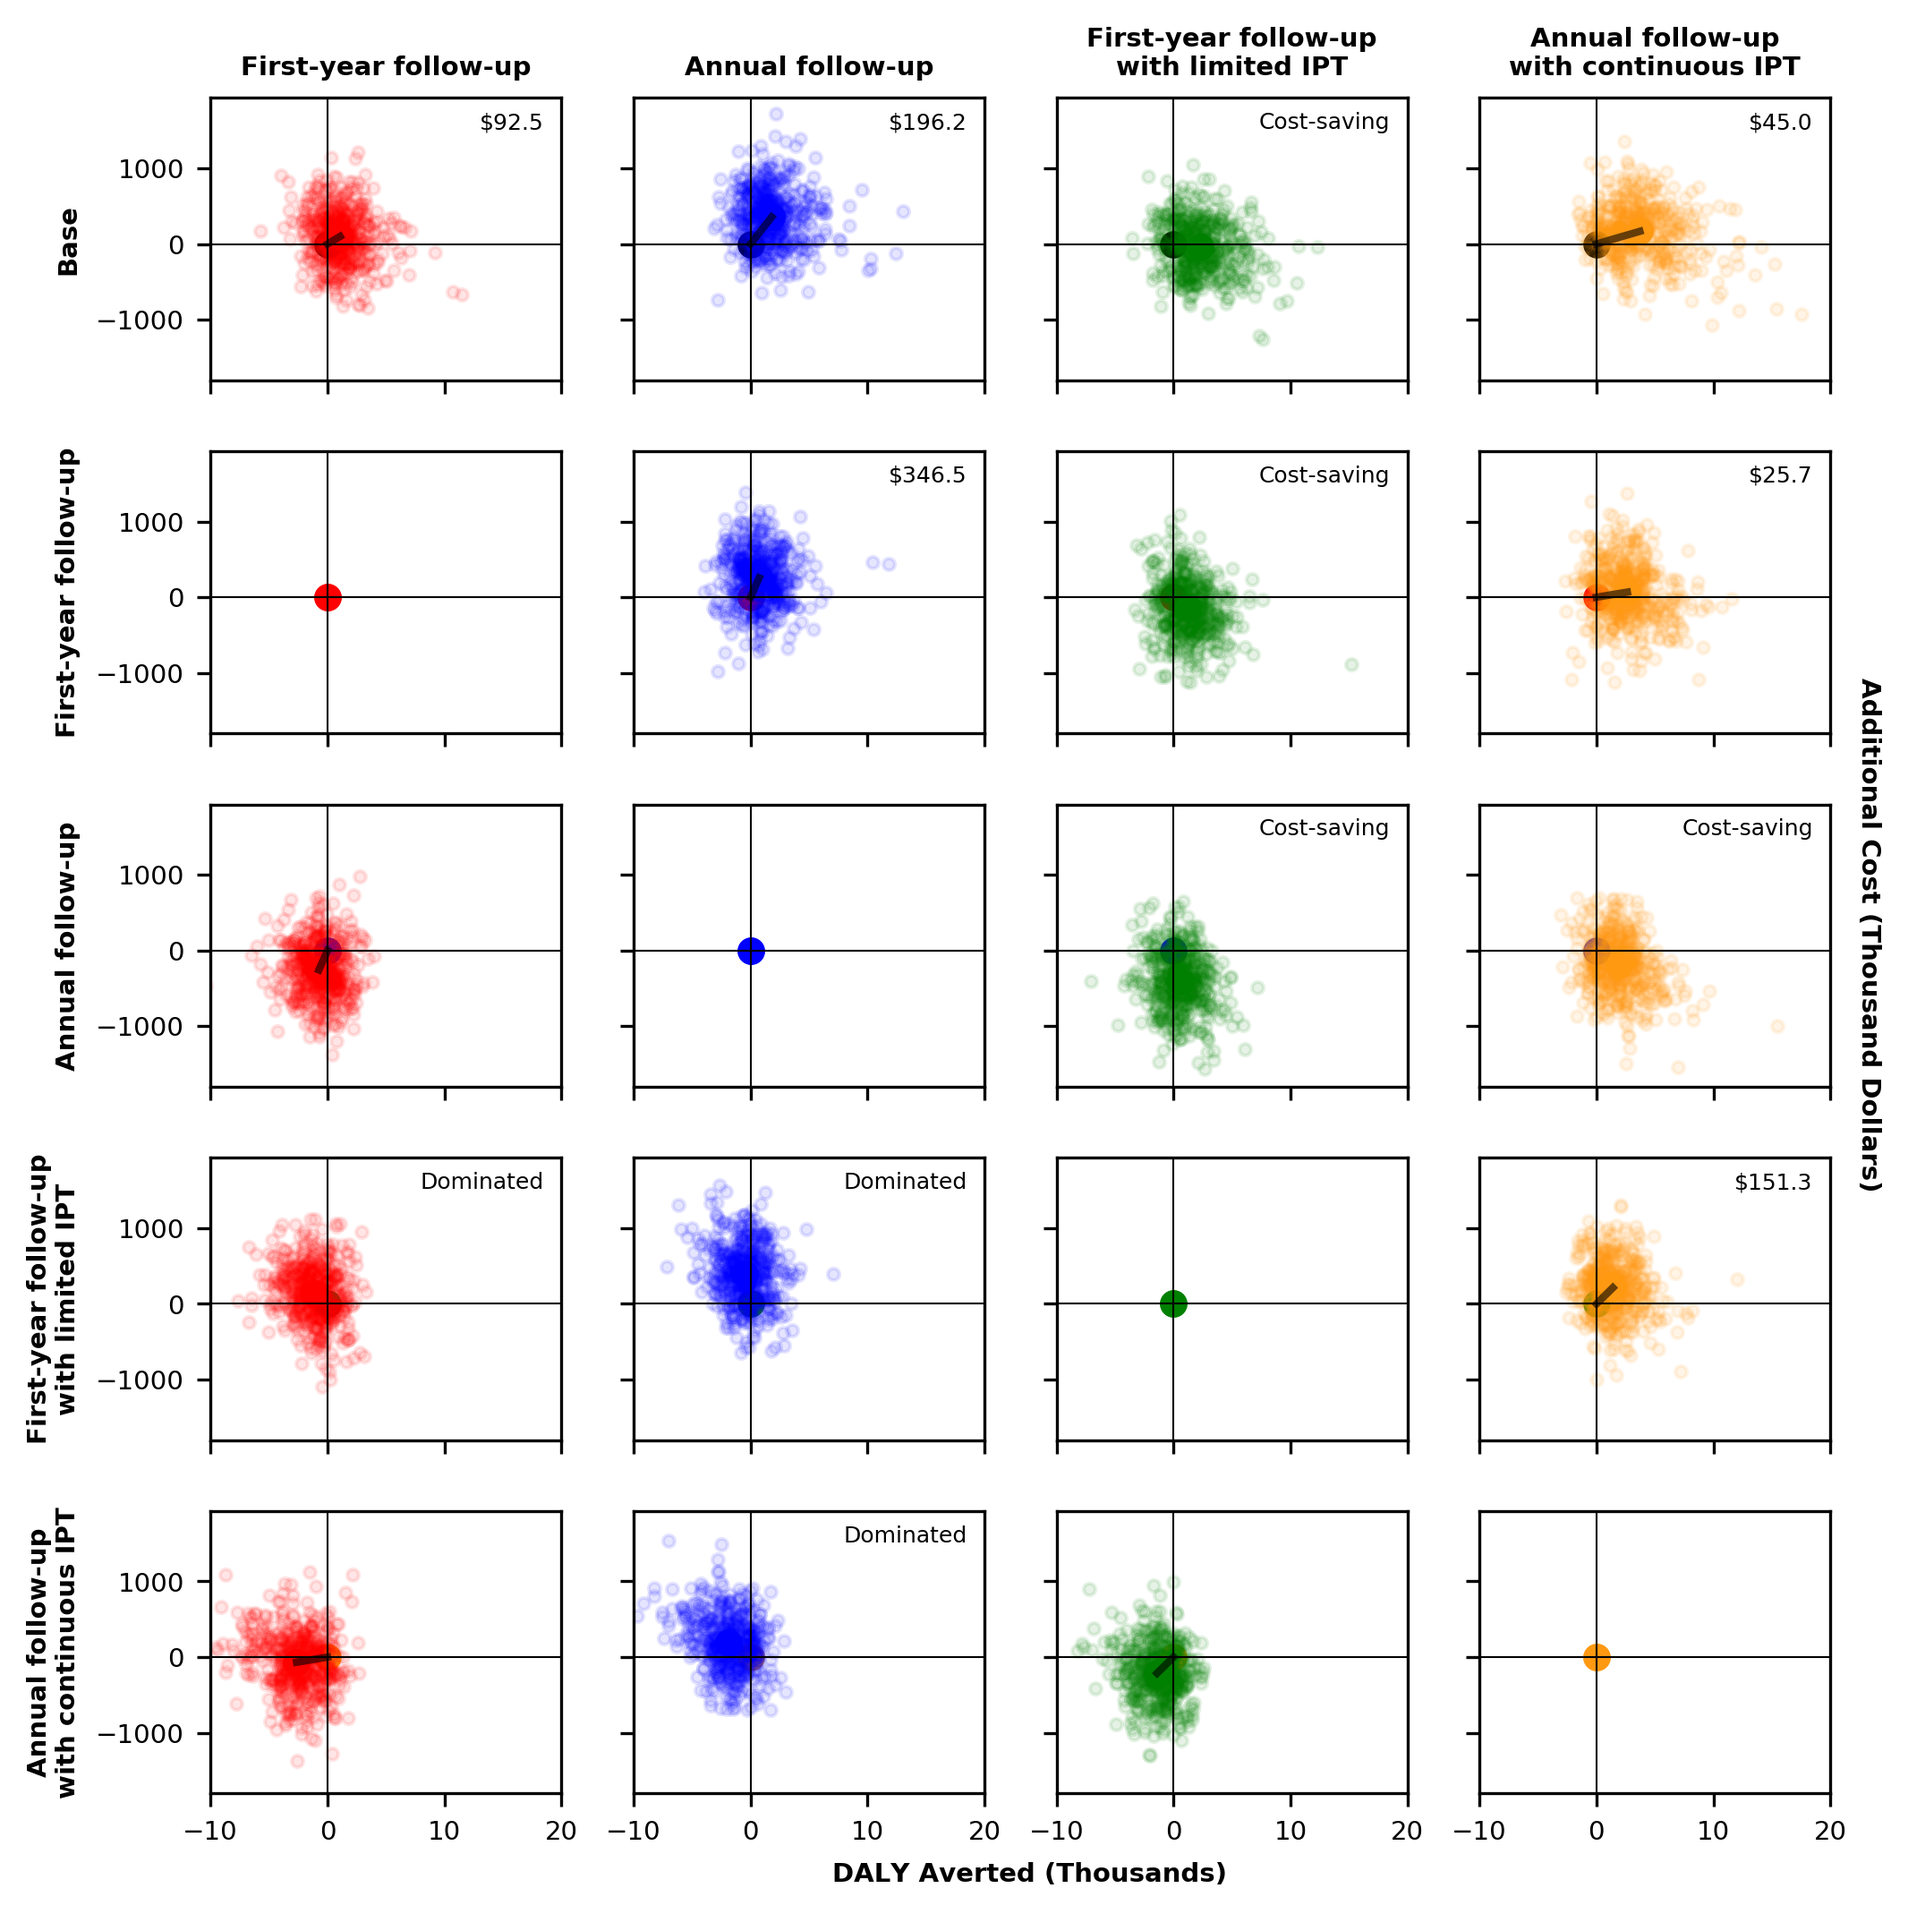
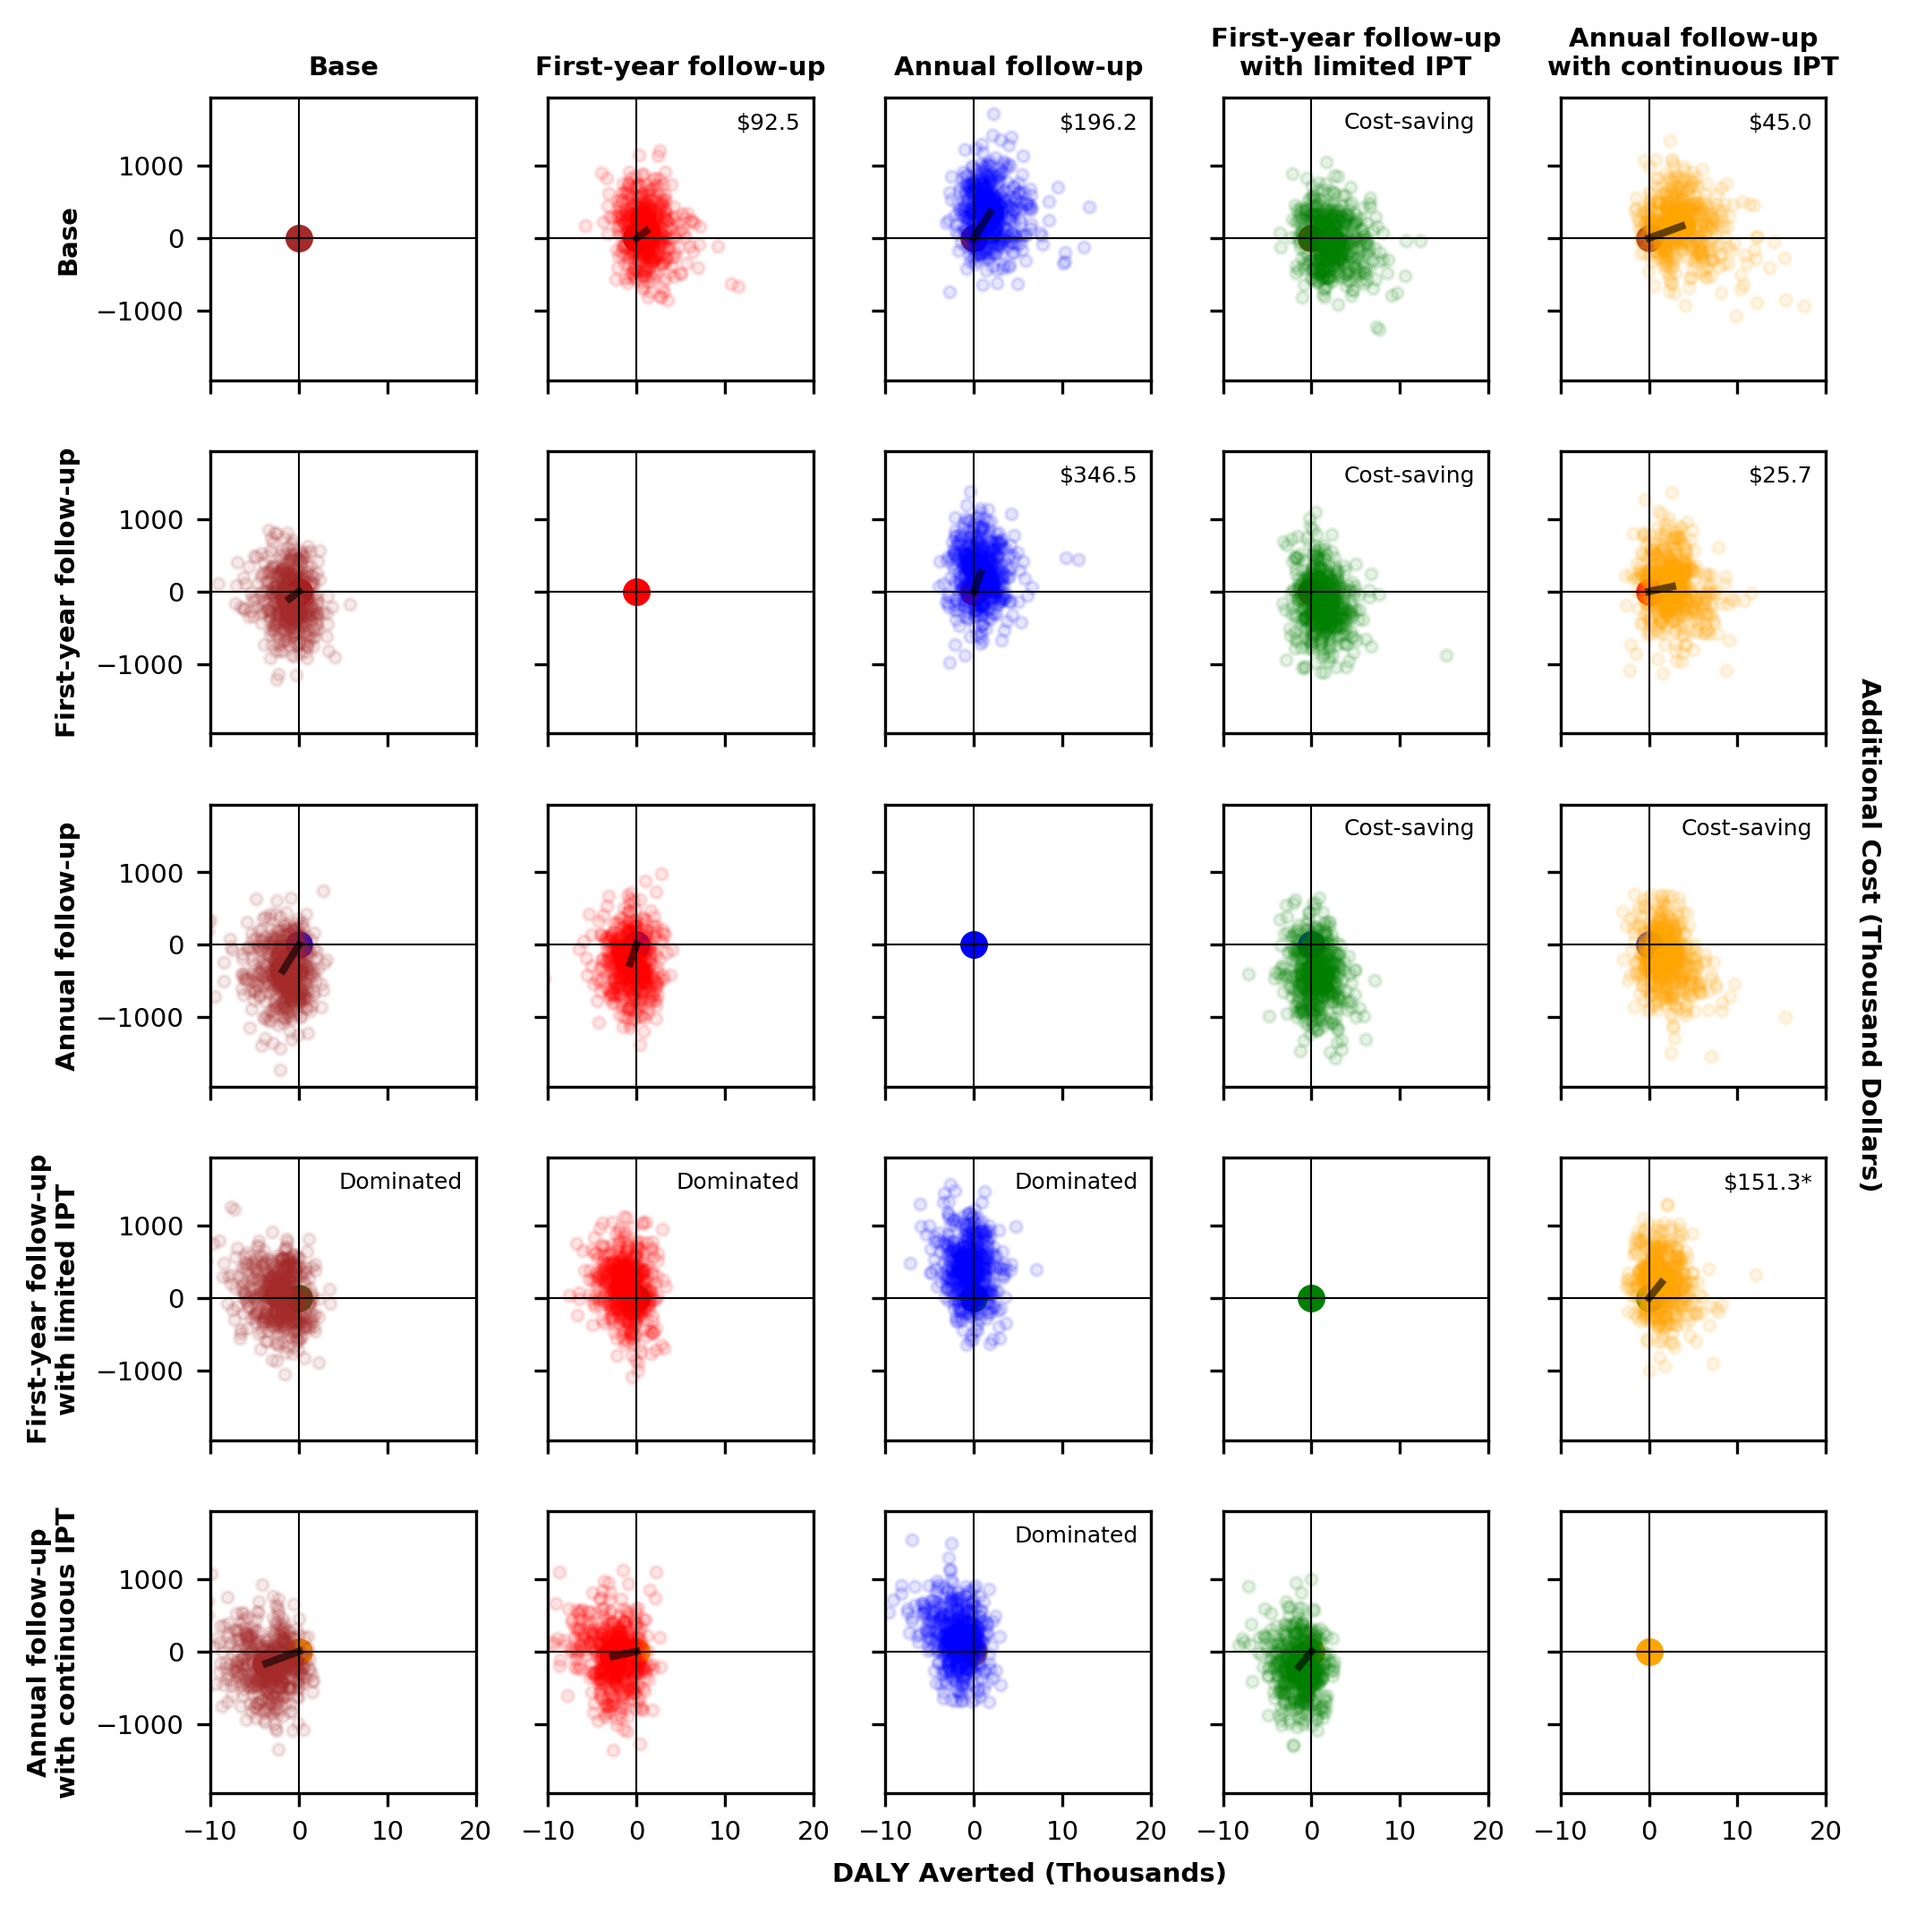
pairwise CEA

diff --git a/tb/TB_CEA.py b/tb/TB_CEA.py
@@ -3,7 +3,7 @@ import apace.ScenariosClasses as Cls
 import numpy as np
 
 markers = ['o', 's', '^', 'D']
-colors = ['k', 'r', 'b', 'g', '#FF9912']
+colors = ['brown', 'red', 'blue', 'green', 'orange']
 
 PROB_UPTAKE = 0.75      # 0.5, 0.75, 1
 PROB_DROPOUT = 0.15     # 0.1, 0.15, 0.25,
@@ -206,7 +206,7 @@ series[0].CEA.plot_pairwise_ceas(
     effect_multiplier=1/1000,
     cost_multiplier=1/1000,
     x_range=[-10, 20],
-    column_titles=titles[1:],
+    column_titles=titles,
     row_titles=titles,
     file_name='figures\pairwise_cea.png'
 )
